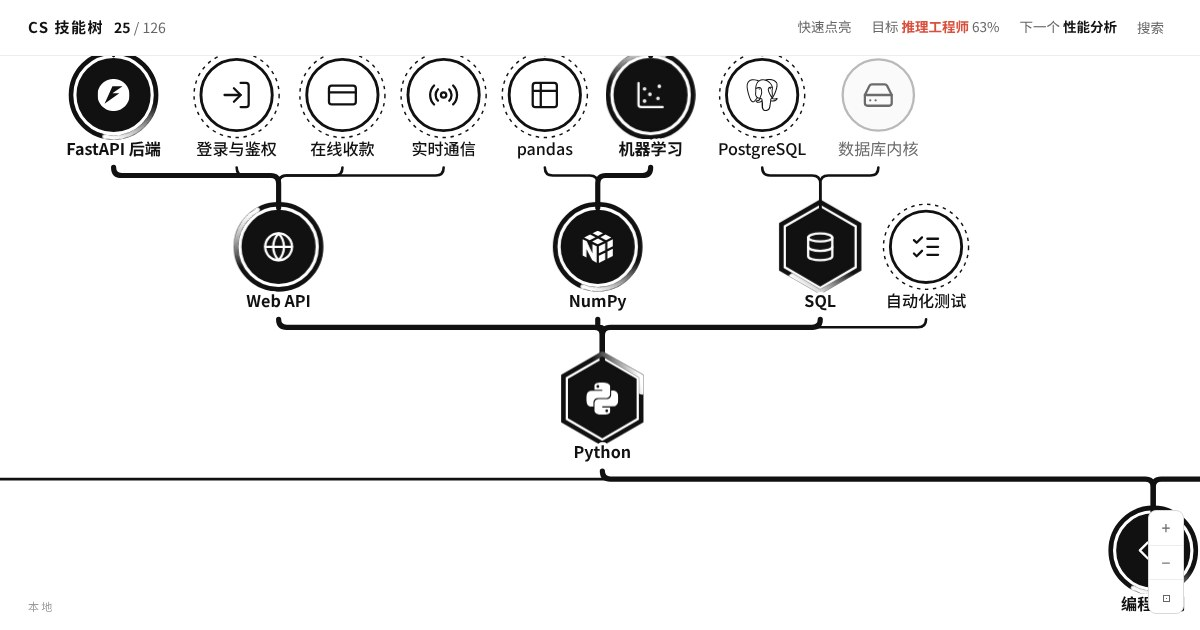
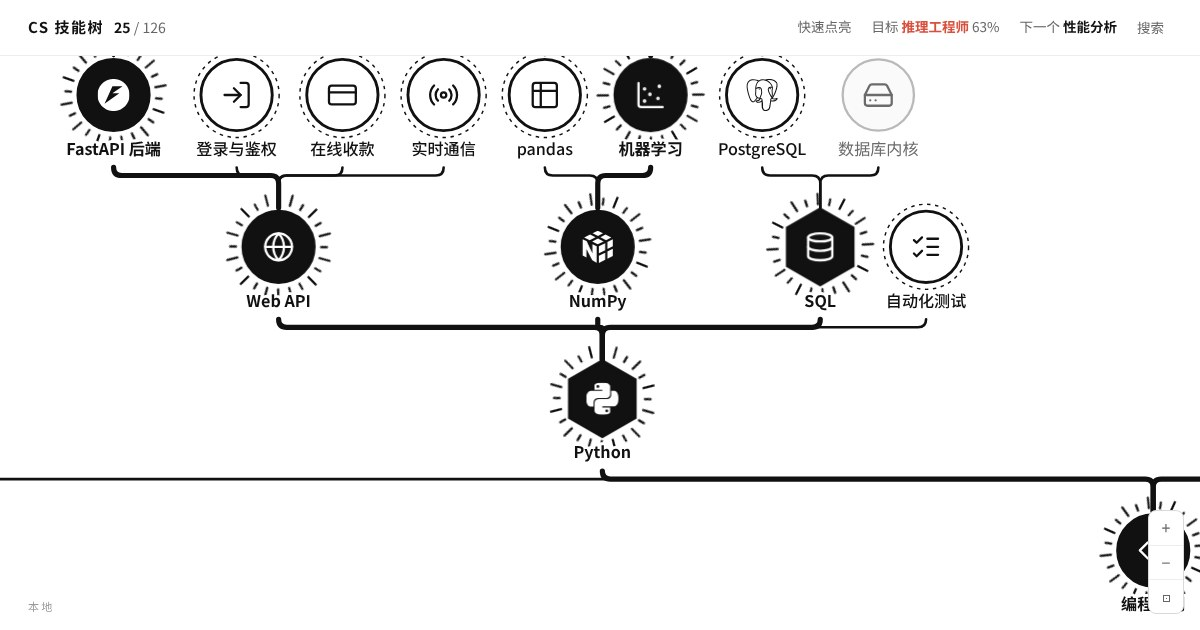
Lit skills radiate a rotating ring of rays; requirements are the level above
Lit skills stay black with a white icon. The orbiting light and track
ring are replaced by 24 short black rays in alternating lengths,
radiating outward like a sun and turning slowly, nine seconds per
turn, each node at its own angle. The card's icon slot uses the same
rays. Reduced motion stops the turn.

The card and the locked button now say 先点亮上一级: prerequisites sit
one level above in the hierarchy even though the tree draws them below.

Claude-Session: https://claude.ai/code/session_01VcDYgFzowvD3W4KKBaHuKd

diff --git a/src/components/SkillTree.tsx b/src/components/SkillTree.tsx
@@ -36,39 +36,27 @@ export function SkillGlyph({ icon, size }: { icon: string; size: number }) {
 type Relation = 'none' | 'path' | 'dim'
 
 /**
- * 点亮了：外圈轨道上一道白光一直绕着转，像彗星：头最亮，尾巴渐渐淡掉。
- * 光是一段四分之一圈的弧，用一个线性渐变从尾到头由透明变白，整段弧匀速旋转。
- * 六边形的轨道不是圆，用遮罩只让光出现在六边形的边上。
- * r 是轨道半径（圆的半径，或六边形的外接圆半径）。
+ * 点亮了：节点外面一圈向外放射的光芒（长短相间的短线，像太阳），整圈慢慢旋转。
+ * r 是光芒从哪里开始（离中心多远）；圆和六边形都用同一圈。
  */
-export function OrbitLight({ uid, r, language, delay }: { uid: string; r: number; language: boolean; delay?: string }) {
-  const arcR = language ? r * 0.93 : r
-  const arc = (
-    <g className="orbit-spin" style={{ animationDelay: delay }}>
-      <circle r={arcR} pathLength={100} strokeDasharray="25 75" className="orbit-arc" stroke={`url(#comet-${uid})`} strokeWidth={language ? 12 : 4} />
-    </g>
-  )
+const RAYS = 24
+export function Rays({ r, delay }: { r: number; delay?: string }) {
   return (
-    <g className="orbit">
-      <defs>
-        {/* 弧从右边（尾）顺时针到下边（头）：沿 y 从透明到白 */}
-        <linearGradient id={`comet-${uid}`} gradientUnits="userSpaceOnUse" x1="0" y1="0" x2="0" y2={arcR}>
-          <stop offset="0" stopColor="#fff" stopOpacity="0" />
-          <stop offset="0.75" stopColor="#fff" stopOpacity="0.75" />
-          <stop offset="1" stopColor="#fff" stopOpacity="1" />
-        </linearGradient>
-        {language && (
-          <mask id={`orbit-mask-${uid}`} maskUnits="userSpaceOnUse" x={-r - 10} y={-r - 10} width={2 * r + 20} height={2 * r + 20}>
-            <path d={hexPath(r)} fill="none" stroke="#fff" strokeWidth={4} strokeLinejoin="round" />
-          </mask>
-        )}
-      </defs>
-      {language ? <g mask={`url(#orbit-mask-${uid})`}>{arc}</g> : arc}
+    <g className="rays" aria-hidden>
+      <g className="rays-spin" style={{ animationDelay: delay }}>
+        {Array.from({ length: RAYS }, (_, i) => {
+          const a = (Math.PI * 2 * i) / RAYS
+          const len = i % 2 === 0 ? 9 : 5
+          const c = Math.cos(a)
+          const sn = Math.sin(a)
+          return <line key={i} x1={(c * r).toFixed(1)} y1={(sn * r).toFixed(1)} x2={(c * (r + len)).toFixed(1)} y2={(sn * (r + len)).toFixed(1)} />
+        })}
+      </g>
     </g>
   )
 }
 
-/** 每个节点的光转到不同的位置，整张图不会齐刷刷一起转 */
+/** 每个节点的光芒转到不同的角度，整张图不会齐刷刷一起转 */
 export function orbitDelay(id: string): string {
   let h = 0
   for (let i = 0; i < id.length; i++) h = (h * 31 + id.charCodeAt(i)) | 0
@@ -128,8 +116,8 @@ const Node = memo(function Node({ id, language, x, y, name, icon, state, focused
           <SkillGlyph icon={icon} size={28} />
         </div>
       </foreignObject>
-      {/* 点亮了：外圈轨道上一道白光一直绕着转 */}
-      {state === 'done' && <OrbitLight uid={`n-${id}`} r={language ? NODE_R + 8 : NODE_R + 6} language={language} delay={orbitDelay(id)} />}
+      {/* 点亮了：外面一圈光芒慢慢转 */}
+      {state === 'done' && <Rays r={NODE_R + 6} delay={orbitDelay(id)} />}
       {/* 点亮那一刻：八道光芒往外散开 */}
       {pulse && state === 'done' && (
         <g className="sparks">

diff --git a/src/components/SkillPanel.tsx b/src/components/SkillPanel.tsx
@@ -1,7 +1,7 @@
 // 一个技能：像游戏里的技能卡。图标槽、名字、状态、一句话、点亮按钮、需要什么、解锁什么、去哪学。
 import type { SkillState } from '../types'
 import { useApp } from '../state'
-import { OrbitLight, SkillGlyph, hexPath, orbitDelay } from './SkillTree'
+import { Rays, SkillGlyph, hexPath, orbitDelay } from './SkillTree'
 import { Links, StatusControl } from './common'
 
 const BADGE: Record<SkillState, string> = { locked: '未解锁', available: '可点亮', done: '已点亮' }
@@ -22,7 +22,7 @@ function Slot({ uid, icon, language, state, size = 96 }: { uid: string; icon: st
           <circle className="slot-box" r={R} />
         </>
       )}
-      {state === 'done' && <OrbitLight uid={`s-${uid}`} r={language ? R + 10 : R + 8} language={language} delay={orbitDelay(uid)} />}
+      {state === 'done' && <Rays r={R + 5} delay={orbitDelay(uid)} />}
       <foreignObject x={-16} y={-16} width="32" height="32">
         <div className="slot-glyph"><SkillGlyph icon={icon} size={32} /></div>
       </foreignObject>
@@ -56,7 +56,7 @@ export function SkillPanel({ id }: { id: string }) {
 
       {s.prerequisites.length > 0 && (
         <section className="card-sec">
-          <h4>先点亮下一级</h4>
+          <h4>先点亮上一级</h4>
           <div className="mini-row">
             {s.prerequisites.map((p) => {
               const q = tree.skill(p)

diff --git a/src/styles.css b/src/styles.css
@@ -309,8 +309,7 @@ a {
 }
 
 .node.s-done .ring {
-  stroke: var(--ink);
-  stroke-width: 4;
+  stroke: transparent;
 }
 
 .node.s-done .glyph {
@@ -413,23 +412,24 @@ a {
   }
 }
 
-/* 绕圈的白光：一段带渐变的弧，匀速转。旋转中心是节点中心（弧所在的圆的中心） */
-.orbit {
+/* 点亮的光芒：一圈放射的黑色短线，慢慢旋转。旋转中心是节点中心（光芒整圈对称，边框中心就是节点中心） */
+.rays {
   pointer-events: none;
 }
 
-.orbit-arc {
-  fill: none;
+.rays line {
+  stroke: var(--ink);
+  stroke-width: 2;
   stroke-linecap: round;
 }
 
-.orbit-spin {
+.rays-spin {
   transform-box: fill-box;
   transform-origin: center;
-  animation: orbit-spin 2.6s linear infinite;
+  animation: rays-spin 9s linear infinite;
 }
 
-@keyframes orbit-spin {
+@keyframes rays-spin {
   to {
     transform: rotate(360deg);
   }
@@ -447,7 +447,7 @@ a {
 }
 
 @media (prefers-reduced-motion: reduce) {
-  .orbit-spin {
+  .rays-spin {
     animation: none;
   }
 }
@@ -1140,8 +1140,7 @@ button.danger {
 }
 
 .slot.s-done .slot-ring {
-  stroke: var(--ink);
-  stroke-width: 4;
+  stroke: transparent;
 }
 
 .slot-glyph {

diff --git a/src/components/common.tsx b/src/components/common.tsx
@@ -67,7 +67,7 @@ export function StatusControl({ id }: { id: string }) {
       ) : locked ? (
         <>
           <Lock size={16} strokeWidth={2.4} />
-          <span className="lt-main">先点亮需要的技能</span>
+          <span className="lt-main">先点亮上一级</span>
         </>
       ) : (
         <>

diff --git a/docs/ART.md b/docs/ART.md
@@ -37,7 +37,7 @@
 | --- | --- |
 | 够不着 | 近白底、中灰框，深灰图标和名字（看得清） |
 | 能点亮 | 白底黑框 2.5px，外面一圈黑虚线（空着等你点的技能槽），黑图标黑名字；悬停时底色变浅灰 |
-| 已点亮 | 黑底白图标，外面一圈黑色轨道，一道白光沿着轨道一直绕着转：一段四分之一圈的弧，从尾到头由透明渐变到白，像彗星，匀速 2.6 秒一圈；六边形的轨道用遮罩让光只走在边上；每个节点转到的位置不同；名字加粗。点亮那一刻弹一下，一圈波纹和八道光芒往外散开 |
+| 已点亮 | 黑底白图标，名字加粗；外面一圈向外放射的黑色短线（24 道，长短相间，像太阳的光芒），整圈慢慢旋转，9 秒一圈；每个节点转到的角度不同。点亮那一刻弹一下，一圈波纹和八道光芒往外散开 |
 | 选中 / 悬停 | 只亮它往下的全部依赖（要先点亮的）：都画成黑边、黑图标、黑名字，连线变黑；其余淡到 45% |
 | 目标里最该学的 | 圆上方一个朱砂小三角 |
 
@@ -64,7 +64,7 @@
 - 卡头：双线框里一个放大的图标槽（和树上同一个形状），旁边是“技能 / 语言天赋 · 领域 · 第几层”、名字、状态牌（未解锁 / 可点亮 / 已点亮）。
 - 一句话。
 - 一块黑色的大按钮“点亮”，按下去会往下沉；已点亮时变成白底“已点亮”，悬停换成红字“熄灭”；前置没点亮时是灰的，按不了。
-- 先点亮下一级：画成和树上一样的小节点（圆或六边形、图标、点亮状态），下面写名字和“已点亮 / 未点亮”，点它跳过去。
+- 先点亮上一级：画成和树上一样的小节点（圆或六边形、图标、点亮状态），下面写名字和“已点亮 / 未点亮”，点它跳过去。
 - 去哪学：一两个链接。
 没有列表轰炸。方向的面板同理：一句话、离它多远、设为目标、几个代表项目的链接。
 
@@ -77,4 +77,4 @@
 ## 动效
 
 - 过渡 0.3 到 0.35s。点亮时节点弹一下（0.85 → 1.12 → 1），波纹和光芒散开一次。
-- 唯一的循环动画是已点亮节点外圈绕着转的白光（2.8 秒一圈）；系统设置了减少动画时停下。
+- 唯一的循环动画是已点亮节点外面那圈光芒慢慢旋转（9 秒一圈）；系统设置了减少动画时停下。
